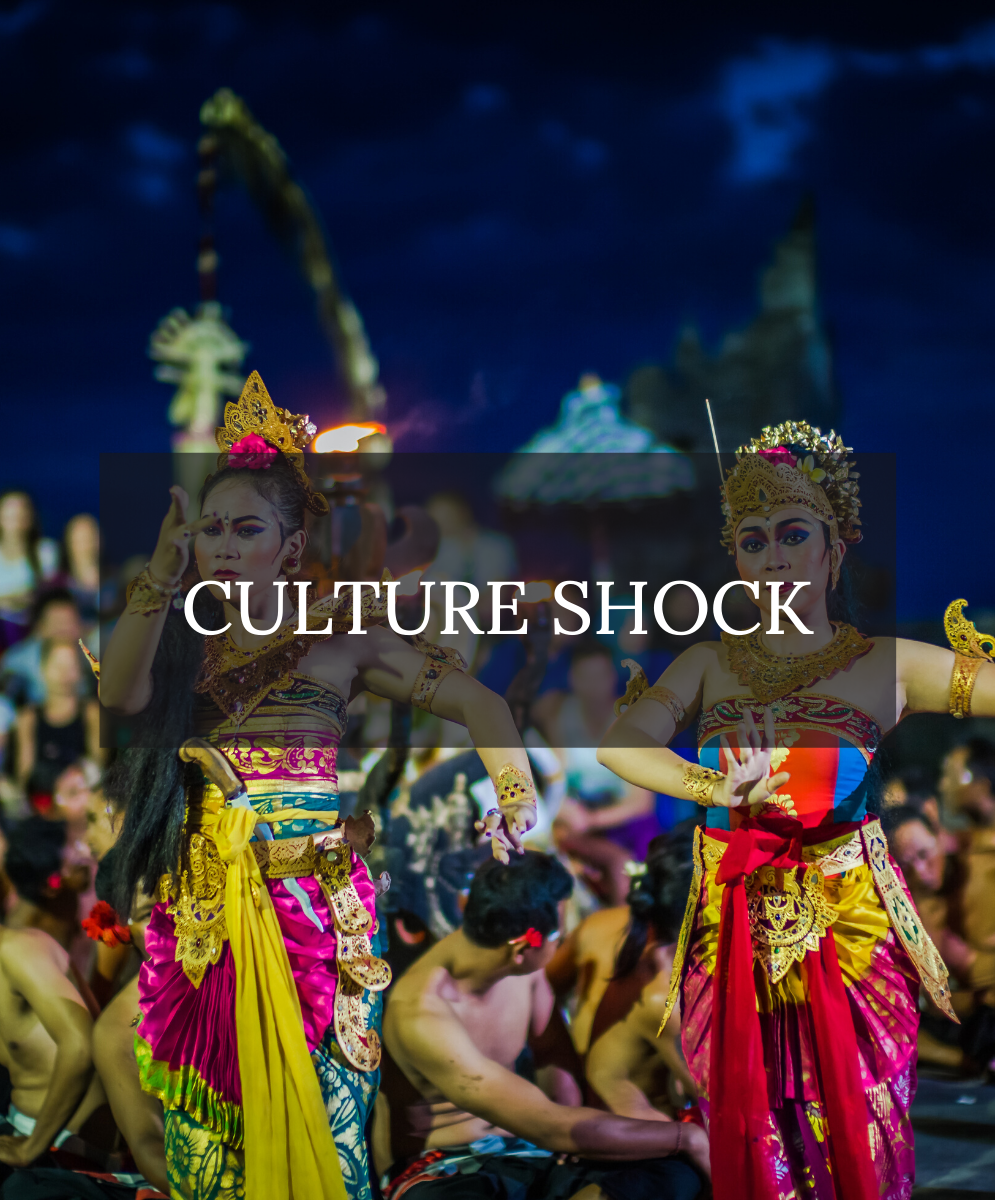
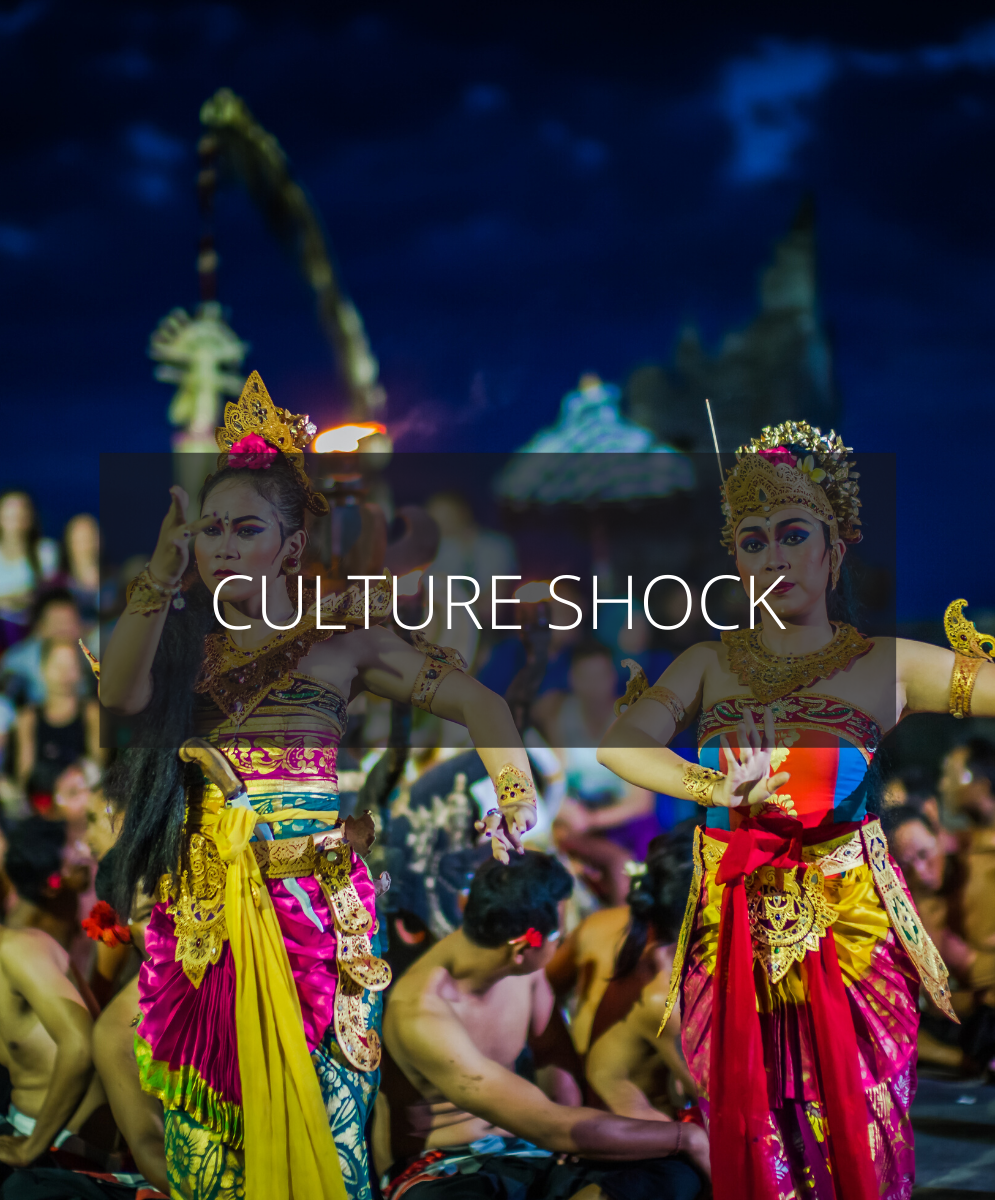
updated the font on the home picture, adjusted the sizing in the about page

Changed region(s): [[0.1869, 0.4625, 0.5296, 0.555], [0.5608, 0.4625, 0.8101, 0.555]]

diff --git a/about/about.css b/about/about.css
@@ -21,14 +21,12 @@ body {
     height: 70px;
     display: flex;
     flex-direction: row;
-    font-family: 'Roboto Condensed', sans-serif;
-    font-size: 25px;
 }
 
 #menu-item {
     margin: auto;
-    font-family: 'Roboto Condensed', sans-serif;
-    font-weight: bold;
+    font-family: 'Open Sans', sans-serif;
+    font-weight: lighter;
     font-size: 25px;
     line-height: 47px;
     display: flex;
@@ -47,7 +45,7 @@ body {
 
 .main {
     margin: auto;
-    height: 75%;
+    height: 70%;
     width: 75%;
     display: flex;
     flex-direction: column;
@@ -68,7 +66,7 @@ body {
 
 .format {
     text-align: justify;
-    margin: 2% 20%;
+    margin: 2% 15%;
     font-family: 'Open Sans', sans-serif;
     font-size: 18px;
     color: white;
@@ -78,5 +76,5 @@ body {
     font-family: 'Roboto', sans-serif;
     color: white;
     text-align: justify;
-    margin: 2% 20%;
+    margin: 2% 15%;
 }

diff --git a/creators/creators.css b/creators/creators.css
@@ -21,14 +21,12 @@ body {
     height: 70px;
     display: flex;
     flex-direction: row;
-    font-family: 'Roboto Condensed', sans-serif;
-    font-size: 25px;
 }
 
 #menu-item {
     margin: auto;
-    font-family: 'Roboto Condensed', sans-serif;
-    font-weight: bold;
+    font-family: 'Open Sans', sans-serif;
+    font-weight: lighter;
     font-size: 25px;
     line-height: 47px;
     display: flex;

diff --git a/index.css b/index.css
@@ -24,14 +24,12 @@ body {
     height: 70px;
     display: flex;
     flex-direction: row;
-    font-family: 'Roboto Condensed', sans-serif;
-    font-size: 25px;
 }
 
 #menu-item {
     margin: auto;
-    font-family: 'Roboto Condensed', sans-serif;
-    font-weight: bold;
+    font-family: 'Open Sans', sans-serif;
+    font-weight: lighter;
     font-size: 25px;
     line-height: 47px;
     display: flex;

diff --git a/sessions/sessions.css b/sessions/sessions.css
@@ -19,14 +19,12 @@ body {
     height: 70px;
     display: flex;
     flex-direction: row;
-    font-family: 'Roboto Condensed', sans-serif;
-    font-size: 25px;
 }
 
 #menu-item {
     margin: auto;
-    font-family: 'Roboto Condensed', sans-serif;
-    font-weight: bold;
+    font-family: 'Open Sans', sans-serif;
+    font-weight: lighter;
     font-size: 25px;
     line-height: 47px;
     display: flex;
